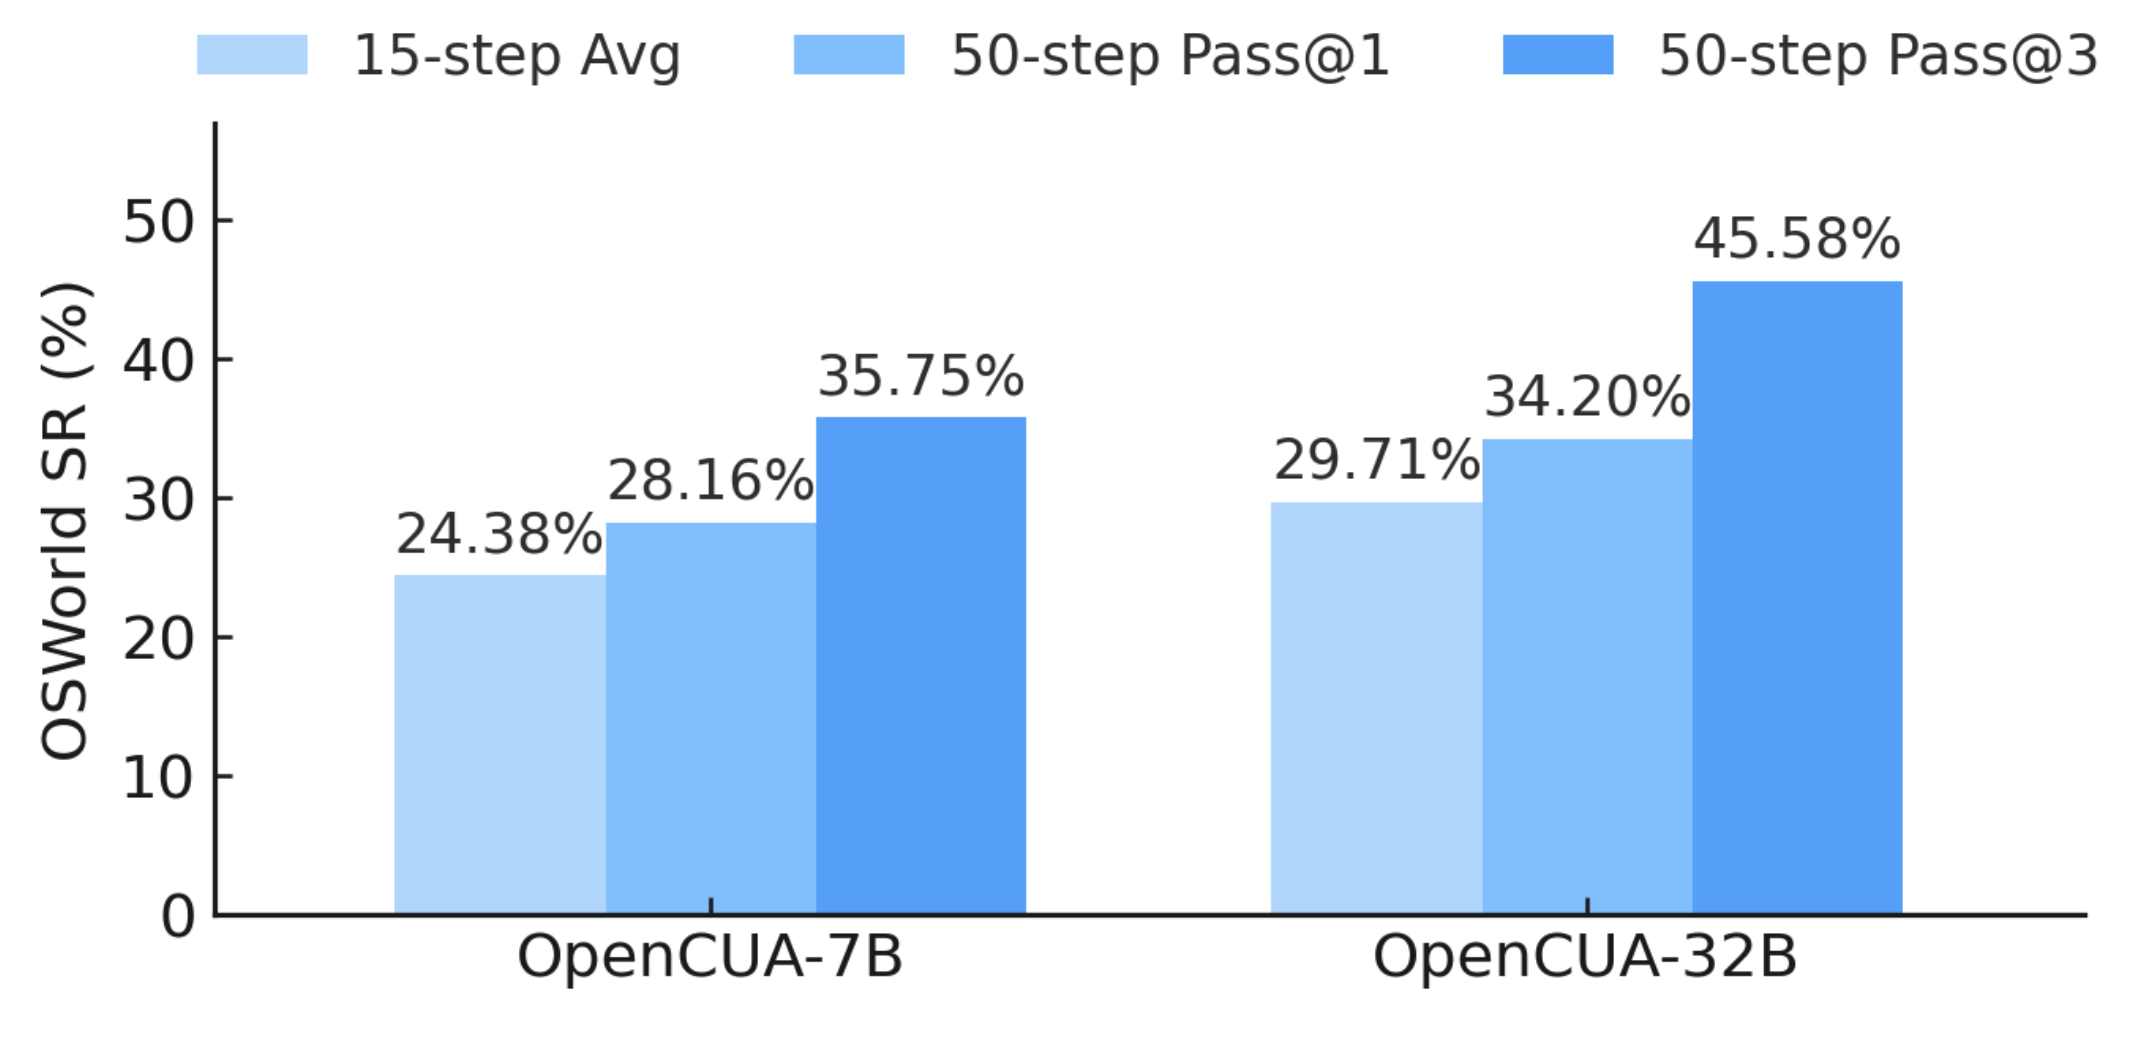
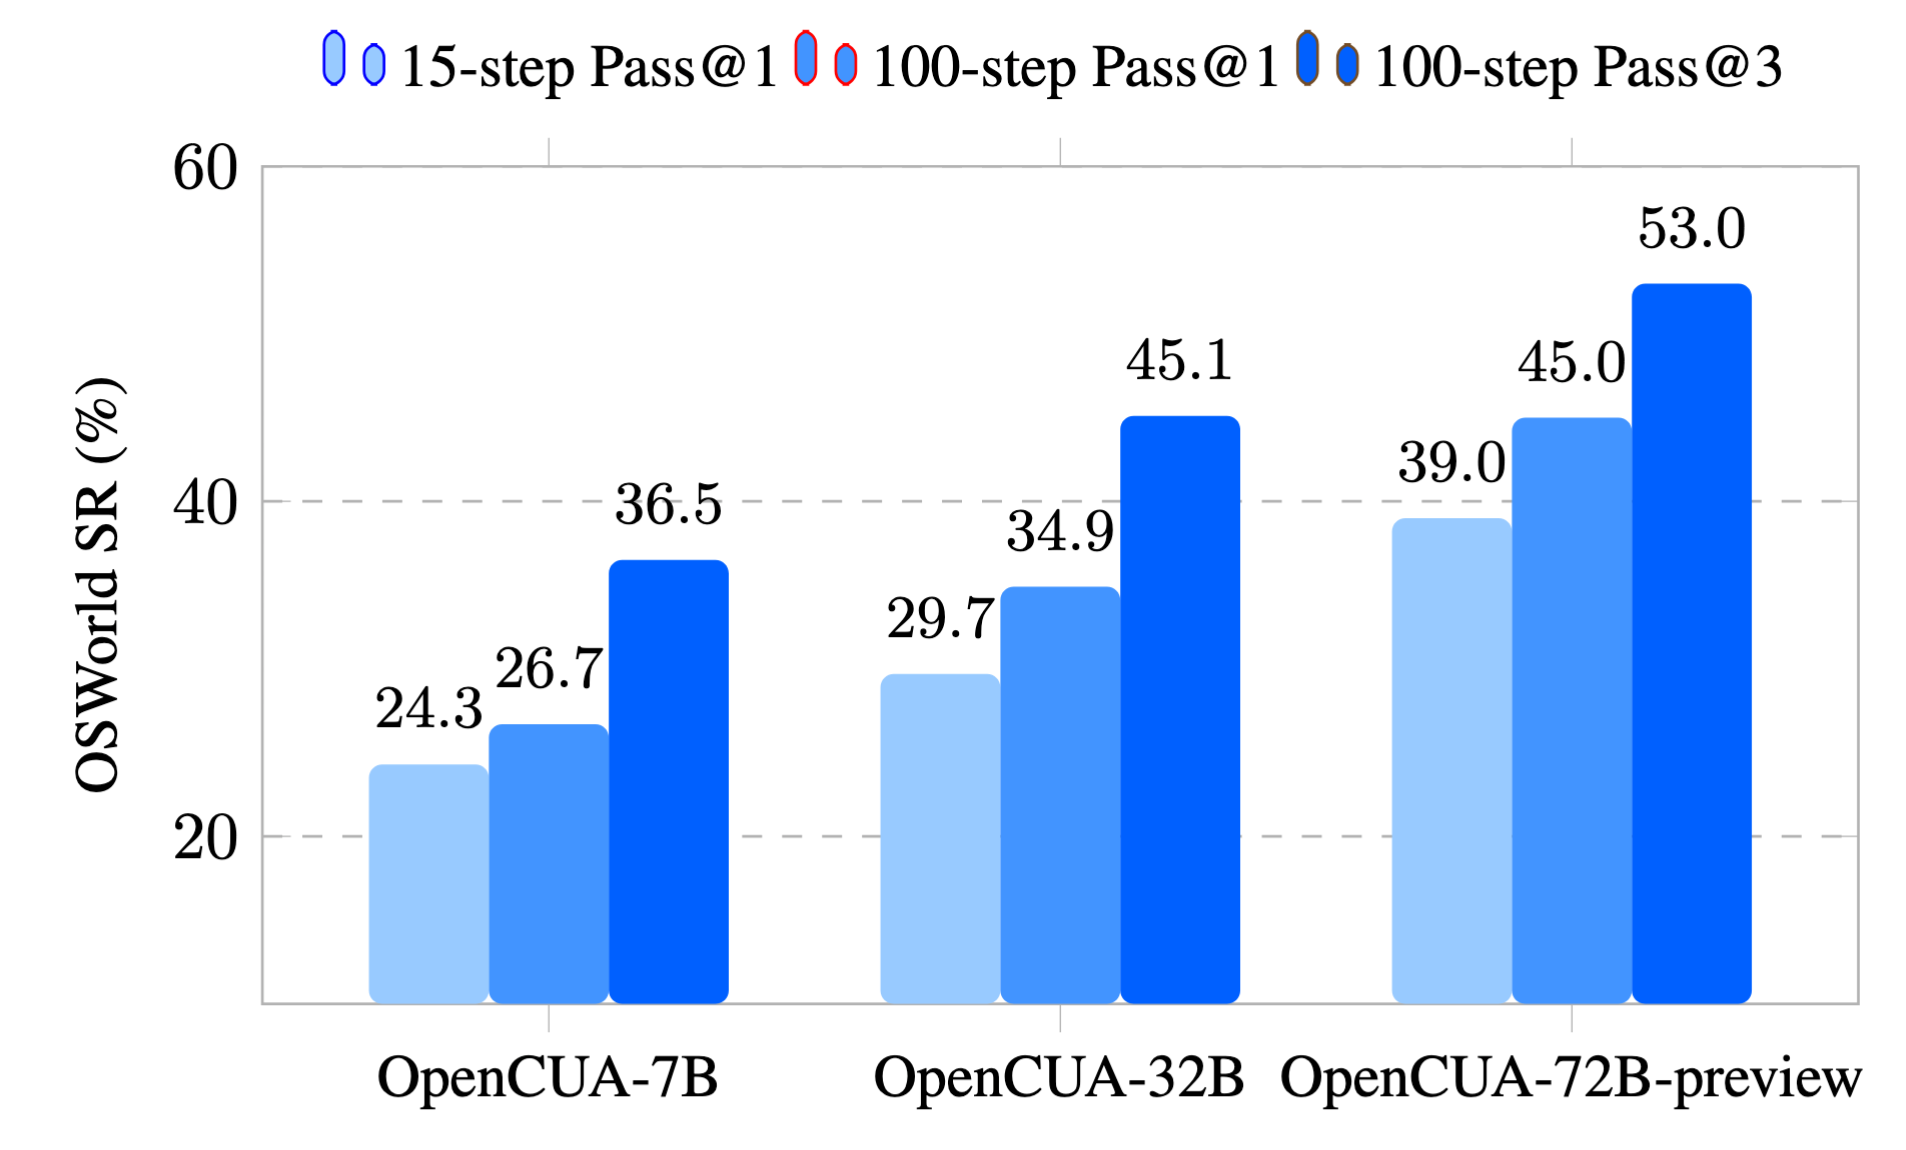
upate

diff --git a/index.html b/index.html
@@ -757,7 +757,9 @@
             <h2 class="title is-3">Updates</h2>
             <div class="content has-text-justified">
               <ul>
-                <li><strong>[2025-10-03]</strong> New model!🔥 <a href="https://huggingface.co/xlangai/OpenCUA-72B" target="_blank" rel="noopener noreferrer">OpenCUA-72B</a> now ranks #1 on the <a href="https://os-world.github.io/" target="_blank" rel="noopener noreferrer">OSWorld-Verified leaderboard</a> with strong grounding, 37.3% (SOTA) on UI-Vision and 60.8% on ScreenSpot-Pro.</li>
+                <li><strong>[2025-10-11]</strong> OpenCUA received the Best Paper Award at the COLM AIA Workshop!</li>
+                <li><strong>[2025-10-03]</strong> New model!🔥 <a href="https://huggingface.co/xlangai/OpenCUA-72B" target="_blank" rel="noopener noreferrer">OpenCUA-72B</a> now ranks #1 on the <a href="https://os-world.github.io/" target="_blank" rel="noopener noreferrer">OSWorld-Verified leaderboard</a> (avg. 45% SR) with strong grounding, 37.3% (SOTA) on UI-Vision and 60.8% on ScreenSpot-Pro.</li>
+                <li><strong>[2025-09-19]</strong> OpenCUA and Jedi are accepted by NeurIPS as Spotlight papers!</li>
                 <li><strong>[2025-09-04]</strong> <a href="https://github.com/xlang-ai/AgentNetTool" target="_blank" rel="noopener noreferrer">AgentNetTool code</a>🛠 is now available!</li>
                 <li><strong>[2025-08-13]</strong> <a href="https://github.com/xlang-ai/OpenCUA" target="_blank" rel="noopener noreferrer">Project code repository</a> is now public.</li>
               </ul>
@@ -1396,47 +1398,6 @@
         <div class="column  is-centered has-text-centered">
           <div class="content">
             <h2 class="title is-3">Analysis</h2>
-            
-            <!-- <h3 class="title is-4">Cross-system Agentic Ability</h3>
-            <p>
-              We perform online evaluations on <b>OSWorld</b> and <b>WindowsAgentArena</b> using our own scaffolding across a range of model structures and sizes, including Kimi-VL-A3B, Qwen2-VL-7B, Qwen2.5-VL-7B, and Qwen2.5-VL-32B. 
-              Our results demonstrate that our approach generalizes well across model structures and sizes, consistently improving upon the corresponding base models. Furthermore, model scaling leads to significant gains: OpenCUA-32B substantially outperforms OpenCUA-7B across both benchmarks.
-            </p>
-
-            <div class="table-container">
-              <table class="comparison-table">
-                <thead>
-                  <tr>
-                    <th rowspan="2">Agent Model</th>
-                    <th colspan="2">OSWorld</th>
-                    <th colspan="2">WAA</th>
-                  </tr>
-                  <tr>
-                    <th>15 steps</th>
-                    <th>50 steps</th>
-                    <th>15 steps</th>
-                    <th>50 steps</th>
-                  </tr>
-                </thead>
-                <tbody>
-                  <tr><td>GPT-4o <sup>[15]</sup></td><td>5.0</td><td>–</td><td>–</td><td>–</td></tr>
-                  <tr><td>Kimi-VL-A3B</td><td>8.2</td><td>–</td><td>10.4</td><td>–</td></tr>
-                  <tr><td>Qwen-2.5-VL-72B</td><td>8.8</td><td>–</td><td>–</td><td>–</td></tr>
-                  <tr><td>Aguvis-72B</td><td>10.3</td><td>–</td><td>–</td><td>–</td></tr>
-                  <tr><td>UI-TARS-7B-SFT</td><td>17.7</td><td>–</td><td>–</td><td>–</td></tr>
-                  <tr><td>UI-TARS-72B-SFT <sup>[25]</sup></td><td>18.8</td><td>–</td><td>–</td><td>–</td></tr> 
-                  <tr><td>UI-TARS-72B-DPO</td><td>22.7</td><td>24.6</td><td>–</td><td>–</td></tr>
-                  <tr><td>Claude 3.7 Sonnet</td><td>15.5</td><td>26.0</td><td>–</td><td>–</td></tr>
-                  <tr><td>OpenAI CUA</td><td>19.7</td><td>32.6</td><td>–</td><td>–</td></tr>
-                  <td class="our-model">OpenCUA-A3B</td></td><td>15.5<sub>±0.84</sub></td><td>17.3<sub>±0.50</sub></td><td>16.0<sub>±1.33</sub></td><td>17.5<sub>±0.74</sub></td></tr>
-                  <td class="our-model">OpenCUA-7B</td><td>18.5<sub>±1.22</sub></td><td>20.1<sub>±2.12</sub></td><td>16.1<sub>±2.02</sub></td><td>21.1<sub>±2.03</sub></td></tr>
-                  <td class="our-model">OpenCUA-2.5-7B</td></td><td>21.8<sub>±1.5</sub></td><td>25.3<sub>±0.50</sub></td><td>22.5<sub>±0.8</sub></td><td>27.1<sub>±2.8</sub></td></tr>
-                  <td class="our-model">OpenCUA-2.5-32B</td><td><b>24.4<sub>±0.4</sub></b></td><td><b>27.7<sub>±1.2</sub></b></td><td><b>23.8<sub>±1.5</sub></b></td><td><b>28.0<sub>±2.0</sub></b></td></tr>
-                </tbody>
-              </table>
-              <p><sup>^</sup>Agentic results for OpenCUA are the average of four runs.</p>
-            </div> -->
-
 
             <h3 class="title is-4">Data Scaling and Test Time Scaling</h3>
             <p>
@@ -1474,6 +1435,26 @@
                 </div>
               </div>
             
+            </div>
+
+            <h3 class="title is-4">Domain transfer</h3>
+            <p>
+              Training Qwen2-VL ablations on Ubuntu-only or Win&Mac-only data still boosts OSWorld (Ubuntu), WindowsAgentArena (Windows), and AgentNetBench (Mac/Windows), proving cross-OS skills transfer instead of memorizing UI patterns.
+            </p>
+            <div class="columns is-centered">
+              <div class="column is-two-thirds">
+                <div class="card">
+                  <div class="card-image">
+                    <figure class="image">
+                      <img src="./static/images/domain_transfer.png"
+                           alt="Domain transfer across OSWorld, WindowsAgentArena, and AgentNetBench">
+                    </figure>
+                  </div>
+                  <div class="card-content has-text-centered is-size-7">
+                    Training on Ubuntu vs. Win&Mac data benefits all benchmarks.
+                  </div>
+                </div>
+              </div>
             </div>
           </div>
         </div>

diff --git a/AGENTS.md b/AGENTS.md
@@ -1,0 +1,31 @@
+# Repository Guidelines
+
+## Project Structure & Module Organization
+- `index.html` owns the landing page layout and analytics tags; assets live in `static/` with CSS overrides in `static/css`, JavaScript interactions in `static/js/index.js`, and media under `static/images`, `static/videos`, and `static/pdf`.
+- `static/trajs/<task_id>/` stores task configs plus `traj.jsonl`; running `convert_task.py` aggregates them into `static/trajs/trajectory.jsonl`, which `static/js/index.js` streams into the UI.
+- Keep new data or tooling scripts colocated with their consumers (for example, helper JS beside `index.js`) to avoid paths drifting.
+
+## Build, Test, and Development Commands
+- `python3 -m http.server 8000` — serves the repo root and lets you preview at `http://localhost:8000`; keeping it simple avoids extra build deps.
+- `python3 convert_task.py` — rebuilds `static/trajs/trajectory.jsonl` after editing any `config.json` or `traj.jsonl`; rerun before committing trajectory changes.
+- `npx serve static` (optional) — quick asset-only preview when you only tweak CSS/JS under `static/`.
+
+## Coding Style & Naming Conventions
+- HTML and CSS use two-space indentation, lowercase tags, and double-quoted attributes/classes (see `index.html` and `static/css/index.css`).
+- JavaScript follows the existing `static/js/index.js` style: four-space (or tab equivalent) blocks, `const/let` over `var` when adding code, and descriptive camelCase identifiers (e.g., `preloadTrajectoryImages`).
+- Favor hyphenated class names (`.trajectory-main`) and keep file names lowercase with hyphens (e.g., `trajectory-panel.html`). Run `npx prettier --write index.html static/js/index.js` if you already have Prettier installed; otherwise, match surrounding formatting manually.
+
+## Testing Guidelines
+- After content or styling changes, refresh the local server in Chrome and Firefox and confirm there are no console errors, broken Bulma carousels, or missing fonts.
+- For trajectory updates, open the “Trajectory Viewer” tabs, ensure each ID renders screenshots without 404s, and watch the play controls to verify keyboard/mouse indicators animate.
+- No automated coverage target exists, but strive to exercise every interactive widget (navbar burger, sliders, carousels) before opening a PR.
+
+## Commit & Pull Request Guidelines
+- Recent history shows terse messages (`update`), but please prefer imperative, descriptive summaries such as `feat: add osworld carousel captions` and reference issues when possible.
+- Each PR should describe what changed, how to repro locally (commands above), and include screenshots or GIFs for UI-visible adjustments; link data tickets when touching `static/trajs`.
+- Confirm linting/formatting commands (or manual checks) ran locally and state that status in the PR checklist.
+
+## Data & Deployment Notes
+- Large binaries belong in `static/videos` or `static/images` and should be compressed (webp/mp4) before commit.
+- When adding tasks, keep `config.json` UTF-8 encoded, name directories with lowercase snake_case IDs, and avoid embedding credentials in trajectories.
+- Production hosting serves the repo as-is, so never leave placeholder TODOs or commented CDN links enabled unless they are required for runtime.
